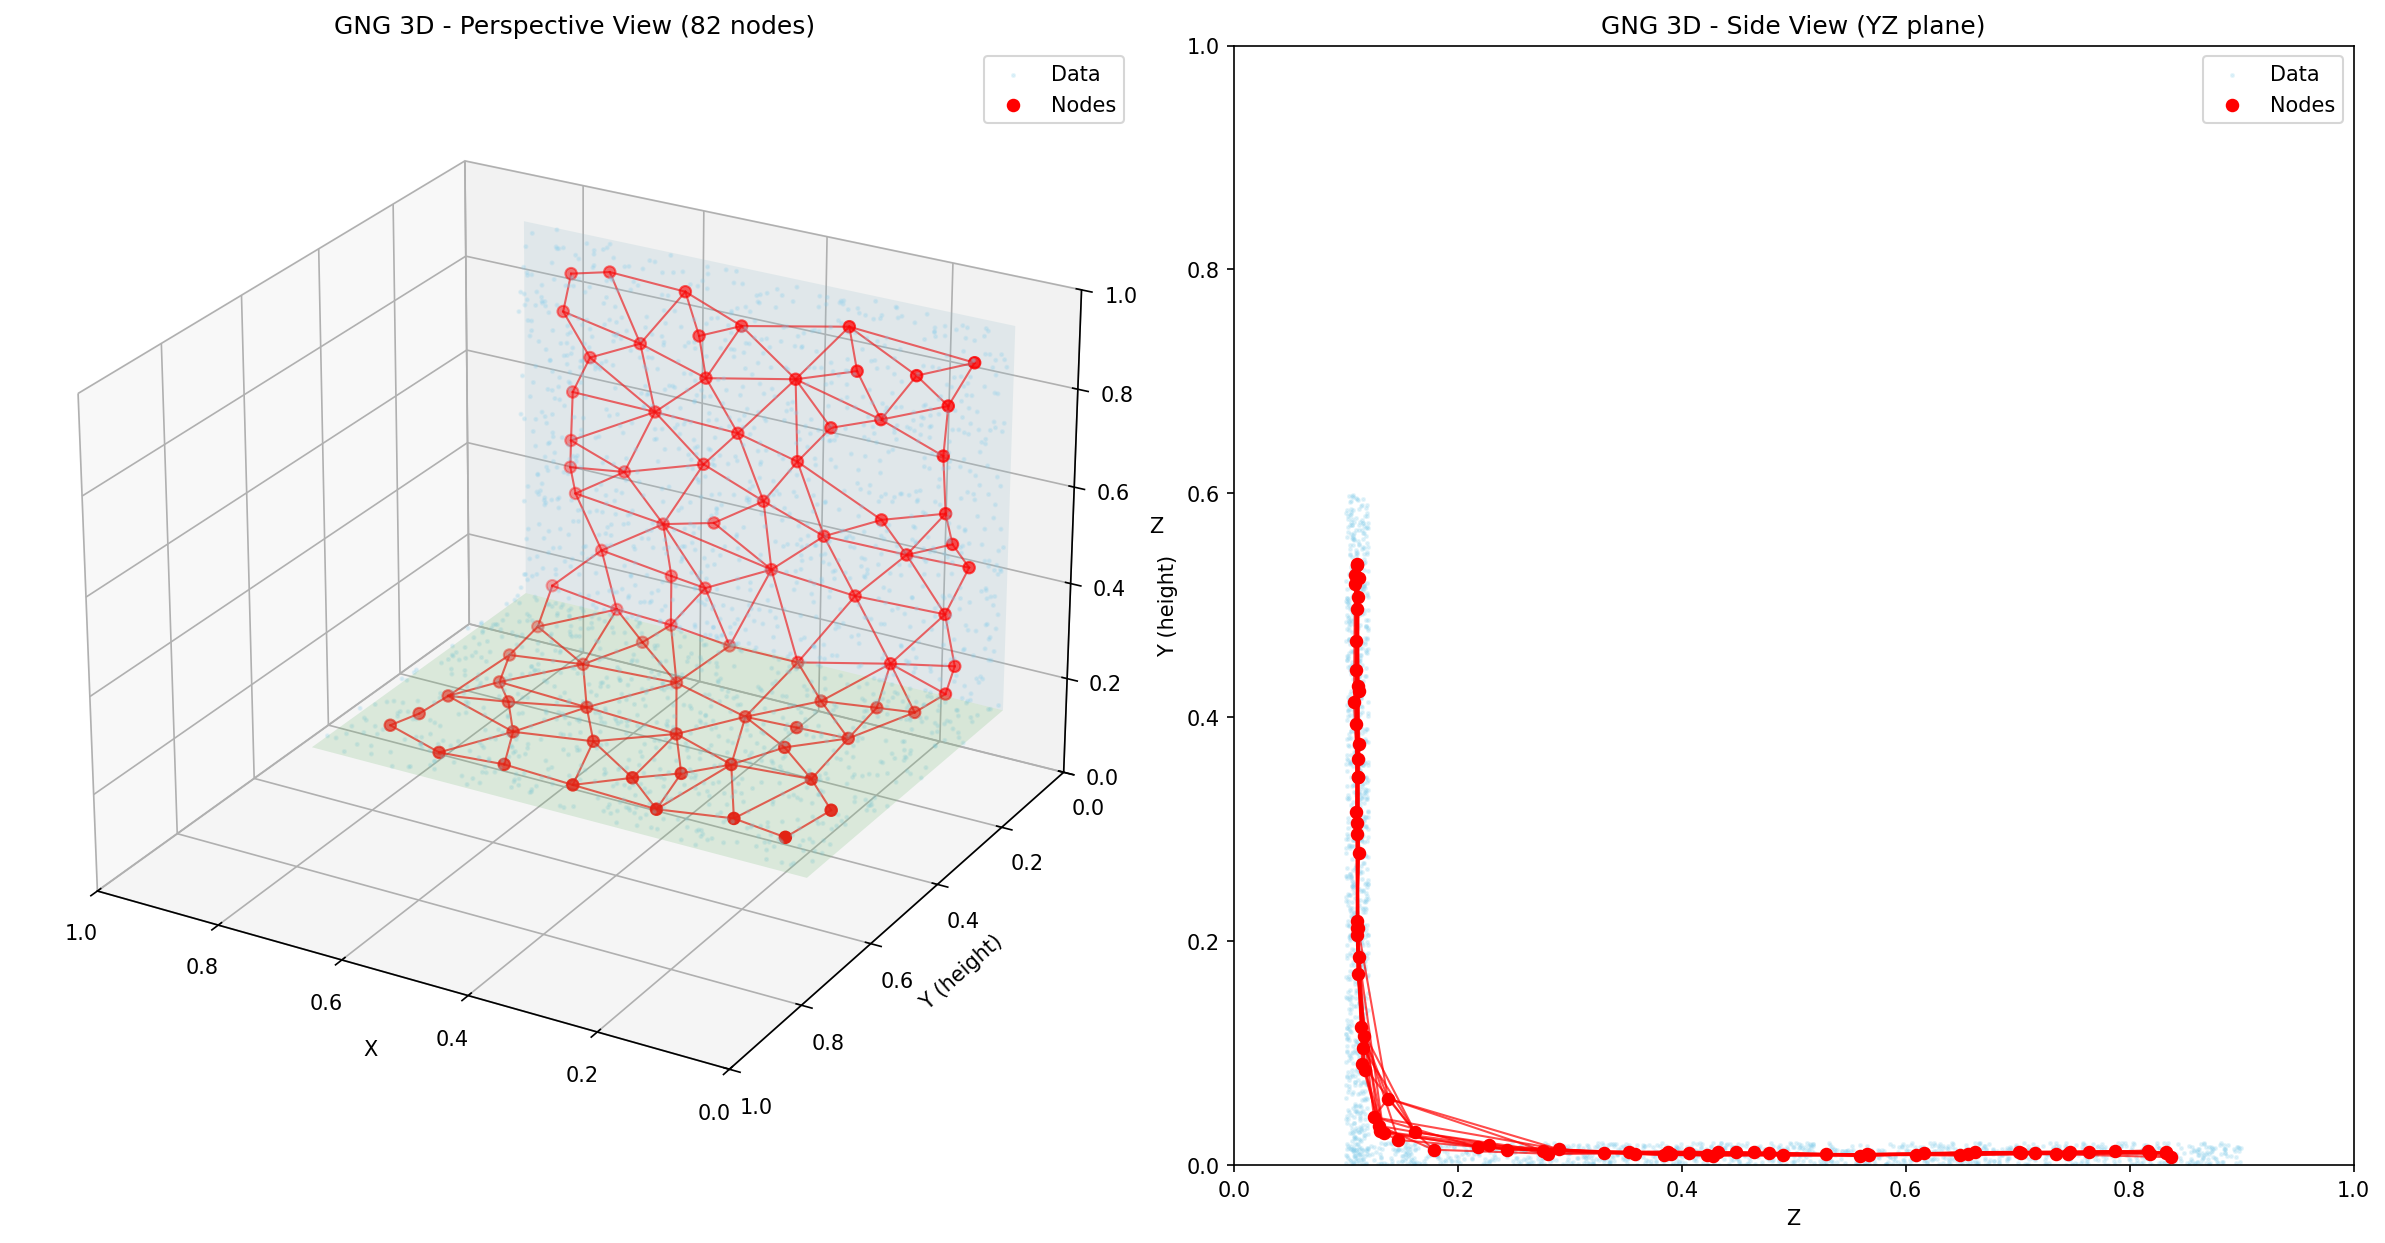
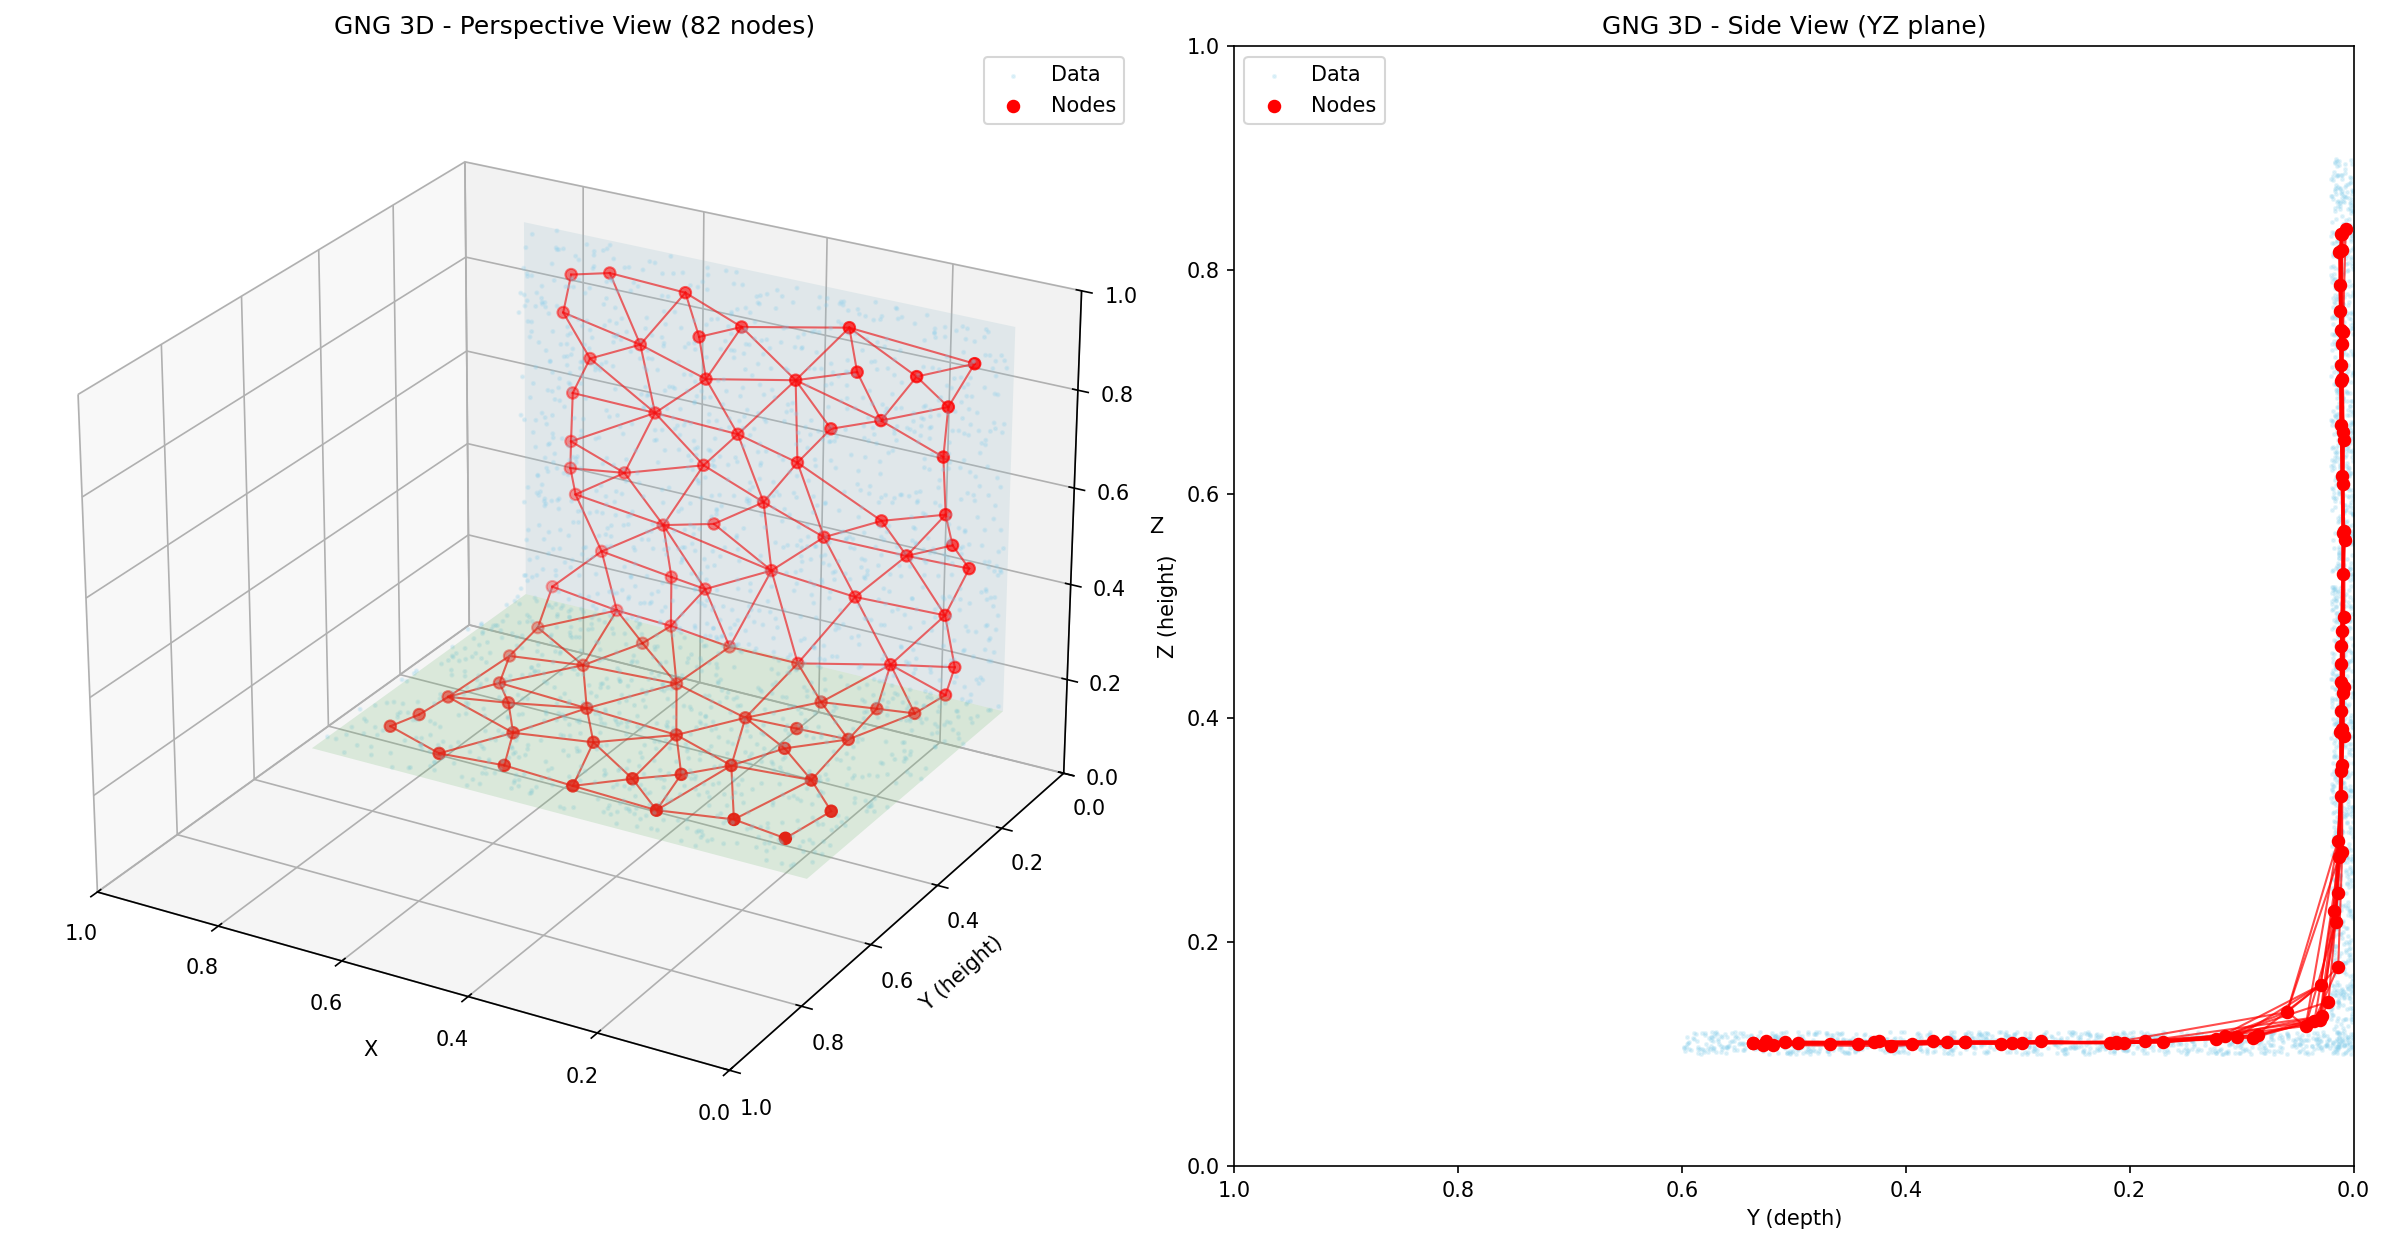
Update 2D side view axis orientation
- Z axis vertical (up = positive)
- Y axis horizontal (left = positive)
- Better matches 3D perspective view orientation

diff --git a/experiments/3d_pointcloud/test_gng_floor_wall.py b/experiments/3d_pointcloud/test_gng_floor_wall.py
@@ -186,31 +186,32 @@ def run_experiment(
     ax_3d.set_title(f"GNG 3D - Perspective View ({len(nodes)} nodes)")
 
     # Right: Pure 2D side view (YZ plane)
+    # Z axis vertical (up = positive), Y axis horizontal (left = positive)
     ax_2d = fig_final.add_subplot(1, 2, 2)
 
-    # Plot data points (Y, Z only)
-    ax_2d.scatter(points[:, 2], points[:, 1], c="skyblue", s=2, alpha=0.2, label="Data")
+    # Plot data points (Y horizontal, Z vertical)
+    ax_2d.scatter(points[:, 1], points[:, 2], c="skyblue", s=2, alpha=0.2, label="Data")
 
-    # Plot edges (Y, Z only)
+    # Plot edges (Y horizontal, Z vertical)
     for i, j in edges:
         ax_2d.plot(
-            [nodes[i, 2], nodes[j, 2]],
             [nodes[i, 1], nodes[j, 1]],
+            [nodes[i, 2], nodes[j, 2]],
             "r-",
             linewidth=1.0,
             alpha=0.7,
         )
 
-    # Plot nodes (Y, Z only)
-    ax_2d.scatter(nodes[:, 2], nodes[:, 1], c="red", s=30, zorder=5, label="Nodes")
+    # Plot nodes (Y horizontal, Z vertical)
+    ax_2d.scatter(nodes[:, 1], nodes[:, 2], c="red", s=30, zorder=5, label="Nodes")
 
-    ax_2d.set_xlim(0, 1)
-    ax_2d.set_ylim(0, 1)
-    ax_2d.set_xlabel("Z")
-    ax_2d.set_ylabel("Y (height)")
+    ax_2d.set_xlim(1, 0)  # Y axis: left = positive
+    ax_2d.set_ylim(0, 1)  # Z axis: up = positive
+    ax_2d.set_xlabel("Y (depth)")
+    ax_2d.set_ylabel("Z (height)")
     ax_2d.set_aspect("equal")
     ax_2d.set_title(f"GNG 3D - Side View (YZ plane)")
-    ax_2d.legend(loc="upper right")
+    ax_2d.legend(loc="upper left")
 
     plt.tight_layout()
     plt.savefig(output_final, dpi=150, bbox_inches="tight", facecolor="white")
